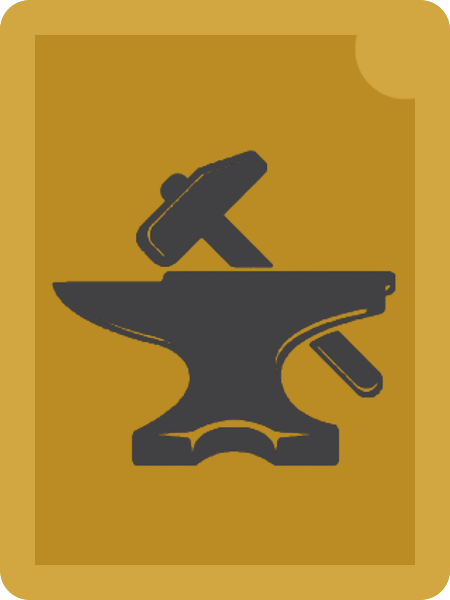
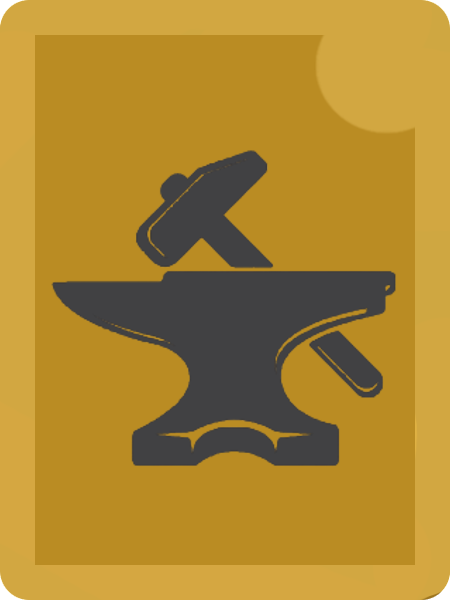
merge

Changed region(s): [[0.6844, 0.06, 0.9333, 0.24], [0.9333, 0.99, 0.9956, 1.0]]

diff --git a/src/assets/css/gamescreen.css b/src/assets/css/gamescreen.css
@@ -41,7 +41,7 @@ body {
 }
 
 /*p {
- background-image: url("../../media/ambertoken.png");
+ background-image: url("../../media/ambertoken1.png");
  color: white;
  font-size: 1.5rem;
  -webkit-text-stroke: 0.4px black;

diff --git a/src/assets/js/Objects/gems.js b/src/assets/js/Objects/gems.js
@@ -1,7 +1,7 @@
 const allGems = [
     {
         "name": "amber",
-        "img": "media/ambertoken.png"
+        "img": "media/ambertoken1.png"
     }
 ]
 
